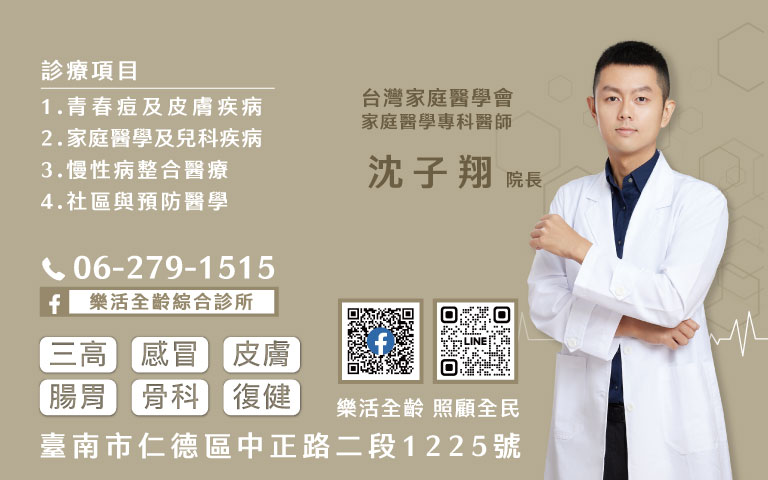
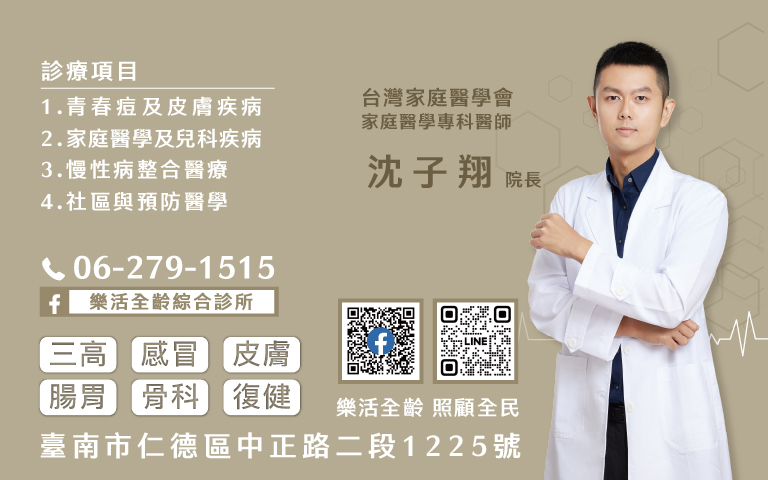
de bug 解決banner在小手機i15無法正常觀看的問題

diff --git a/index.html b/index.html
@@ -64,29 +64,32 @@
         <div class="carousel-inner">
           <div class="carousel-item active">
             <picture>
-              <source media="(max-width: 393px)" srcset="image/BANNER_393.jpg">
+              <source media="(max-width: 320px)" srcset="image/BANNER_320.jpg">
+              <source media="(max-width: 430px)" srcset="image/BANNER_430.jpg">
               <source media="(max-width: 576px)" srcset="image/BANNER_576.jpg">
               <source media="(max-width: 768px)" srcset="image/BANNER_768.jpg">
               <source media="(max-width: 1024px)" srcset="image/BANNER_1024.jpg">
-              <img src="image/BANNER_1920.jpg" class="d-block w-100" alt="樂活全齡診所廣告">
+              <img src="image/BANNER_1920.jpg" class="d-block w-100" alt="樂活全齡診所廣告" loading="eager" decoding="async">
             </picture>
           </div>
           <div class="carousel-item">
             <picture>
-              <source media="(max-width: 393px)" srcset="image/BANNER_393.jpg">
+              <source media="(max-width: 320px)" srcset="image/BANNER_320.jpg">
+              <source media="(max-width: 430px)" srcset="image/BANNER_430.jpg">
               <source media="(max-width: 576px)" srcset="image/BANNER_576.jpg">
               <source media="(max-width: 768px)" srcset="image/BANNER_768.jpg">
               <source media="(max-width: 1024px)" srcset="image/BANNER_1024.jpg">
-              <img src="image/BANNER_1920.jpg" class="d-block w-100" alt="樂活全齡診所廣告">
+              <img src="image/BANNER_1920.jpg" class="d-block w-100" alt="樂活全齡診所廣告" loading="lazy" decoding="async">
             </picture>
           </div>
           <div class="carousel-item">
             <picture>
-              <source media="(max-width: 393px)" srcset="image/BANNER_393.jpg">
+              <source media="(max-width: 320px)" srcset="image/BANNER_320.jpg">
+              <source media="(max-width: 430px)" srcset="image/BANNER_430.jpg">
               <source media="(max-width: 576px)" srcset="image/BANNER_576.jpg">
               <source media="(max-width: 768px)" srcset="image/BANNER_768.jpg">
               <source media="(max-width: 1024px)" srcset="image/BANNER_1024.jpg">
-              <img src="image/BANNER_1920.jpg" class="d-block w-100" alt="樂活全齡診所廣告">
+              <img src="image/BANNER_1920.jpg" class="d-block w-100" alt="樂活全齡診所廣告" loading="lazy" decoding="async">
             </picture>
           </div>
         </div>
@@ -110,7 +113,7 @@
           <div class="col-md-3 mb-4">
             <div class="card service-card h-100 fade-in" style="animation-delay: 0.1s;">
               <div class="card-body text-center">
-                <i class="fas fa-spa display-4 mb-3"></i>
+                <i class="fa-solid fa-hand-dots display-4 mb-3"></i>
                 <h5 class="card-title">青春痘及皮膚疾病</h5>
                 <p class="card-text">專業皮膚診療，解決各類皮膚問題</p>
               </div>

diff --git a/doctor.html b/doctor.html
@@ -58,40 +58,40 @@
     <!-- 服務項目 -->
     <section id="services" class="py-5">
       <div class="container">
-        <h2 class="text-center mb-5">診療項目</h2>
+        <h2 class="text-center mb-5 fade-in">診療項目</h2>
                                                                                                                                                                                                                                                                                                                                                                                       
         <div class="row">
           <div class="col-md-3 mb-4">
-            <div class="card service-card h-100">
+            <div class="card service-card h-100 fade-in" style="animation-delay: 0.1s;">
               <div class="card-body text-center">
-                <i class="fa-solid fa-hand-dots display-4 text-gray mb-3"></i>
+                <i class="fa-solid fa-hand-dots display-4 mb-3"></i>
                 <h5 class="card-title">青春痘及皮膚疾病</h5>
                 <p class="card-text">專業皮膚診療，解決各類皮膚問題</p>
               </div>
             </div>
           </div>
           <div class="col-md-3 mb-4">
-            <div class="card service-card h-100">
+            <div class="card service-card h-100 fade-in" style="animation-delay: 0.2s;">
               <div class="card-body text-center">
-                <i class="bi bi-people display-4 text-gray mb-3"></i>
+                <i class="bi bi-people display-4 mb-3"></i>
                 <h5 class="card-title">家庭醫學及兒科疾病</h5>
                 <p class="card-text">全家人的健康守護者</p>
               </div>
             </div>
           </div>
           <div class="col-md-3 mb-4">
-            <div class="card service-card h-100">
+            <div class="card service-card h-100 fade-in" style="animation-delay: 0.3s;">
               <div class="card-body text-center">
-                <i class="fas fa-pills display-4 text-gray mb-3"></i>
+                <i class="fas fa-pills display-4 mb-3"></i>
                 <h5 class="card-title">慢性病整合醫療</h5>
                 <p class="card-text">專業的慢性病照護和用藥指導</p>
               </div>
             </div>
           </div>
           <div class="col-md-3 mb-4">
-            <div class="card service-card h-100">
+            <div class="card service-card h-100 fade-in" style="animation-delay: 0.4s;">
               <div class="card-body text-center">
-                <i class="bi bi-shield-check display-4 text-gray mb-3"></i>
+                <i class="bi bi-shield-check display-4 mb-3"></i>
                 <h5 class="card-title">社區與預防醫學</h5>
                 <p class="card-text">預防保健，守護社區健康</p>
               </div>
@@ -100,7 +100,6 @@
         </div>
       </div>
     </section>
-
 
 
 

diff --git a/aboutus.html b/aboutus.html
@@ -58,40 +58,40 @@
     <!-- 服務項目 -->
     <section id="services" class="py-5">
       <div class="container">
-        <h2 class="text-center mb-5">診療項目</h2>
+        <h2 class="text-center mb-5 fade-in">診療項目</h2>
                                                                                                                                                                                                                                                                                                                                                                                       
         <div class="row">
           <div class="col-md-3 mb-4">
-            <div class="card service-card h-100">
+            <div class="card service-card h-100 fade-in" style="animation-delay: 0.1s;">
               <div class="card-body text-center">
-                <i class="fa-solid fa-hand-dots display-4 text-gray mb-3"></i>
+                <i class="fa-solid fa-hand-dots display-4 mb-3"></i>
                 <h5 class="card-title">青春痘及皮膚疾病</h5>
                 <p class="card-text">專業皮膚診療，解決各類皮膚問題</p>
               </div>
             </div>
           </div>
           <div class="col-md-3 mb-4">
-            <div class="card service-card h-100">
+            <div class="card service-card h-100 fade-in" style="animation-delay: 0.2s;">
               <div class="card-body text-center">
-                <i class="bi bi-people display-4 text-gray mb-3"></i>
+                <i class="bi bi-people display-4 mb-3"></i>
                 <h5 class="card-title">家庭醫學及兒科疾病</h5>
                 <p class="card-text">全家人的健康守護者</p>
               </div>
             </div>
           </div>
           <div class="col-md-3 mb-4">
-            <div class="card service-card h-100">
+            <div class="card service-card h-100 fade-in" style="animation-delay: 0.3s;">
               <div class="card-body text-center">
-                <i class="fas fa-pills display-4 text-gray mb-3"></i>
+                <i class="fas fa-pills display-4 mb-3"></i>
                 <h5 class="card-title">慢性病整合醫療</h5>
                 <p class="card-text">專業的慢性病照護和用藥指導</p>
               </div>
             </div>
           </div>
           <div class="col-md-3 mb-4">
-            <div class="card service-card h-100">
+            <div class="card service-card h-100 fade-in" style="animation-delay: 0.4s;">
               <div class="card-body text-center">
-                <i class="bi bi-shield-check display-4 text-gray mb-3"></i>
+                <i class="bi bi-shield-check display-4 mb-3"></i>
                 <h5 class="card-title">社區與預防醫學</h5>
                 <p class="card-text">預防保健，守護社區健康</p>
               </div>

diff --git a/css/style.css b/css/style.css
@@ -152,43 +152,9 @@ h2 {
   }
 }
 
-/* 特小型手機 (小於 393px) */
+/* 特小型手機 (小於 393px)，這個設定將被下方iPhone設定覆蓋 */
 @media (max-width: 393px) {
-  .carousel-item {
-    height: 180px;
-    overflow: hidden;
-  }
-  
-  .carousel-item img {
-    height: 100%;
-    object-fit: cover;
-    object-position: center;
-    width: 100%;
-  }
-  
-  .carousel-caption {
-    padding: 8px;
-    bottom: 15%;
-    left: 5%;
-    right: 5%;
-  }
-  
-  .carousel-caption h1 {
-    font-size: 1.1rem;
-    margin-bottom: 0.2rem;
-  }
-  
-  .carousel-caption .lead {
-    font-size: 0.7rem;
-    margin-bottom: 0;
-  }
-
-  /* 讓輪播導航按鈕更小 */
-  .carousel-control-prev-icon,
-  .carousel-control-next-icon {
-    width: 20px;
-    height: 20px;
-  }
+  /* 移除此處的設定，全部移到下方iPhone設定中 */
 }
 
 /* 超小型手機 (更窄屏幕) */
@@ -223,7 +189,7 @@ h2 {
     object-fit: cover;
     object-position: center;
     width: 100%;
-    transform: scale(1.1);
+    transform: scale(1.01); /* 略微縮小比例，避免內容被裁剪 */
   }
   
   .carousel-caption {
